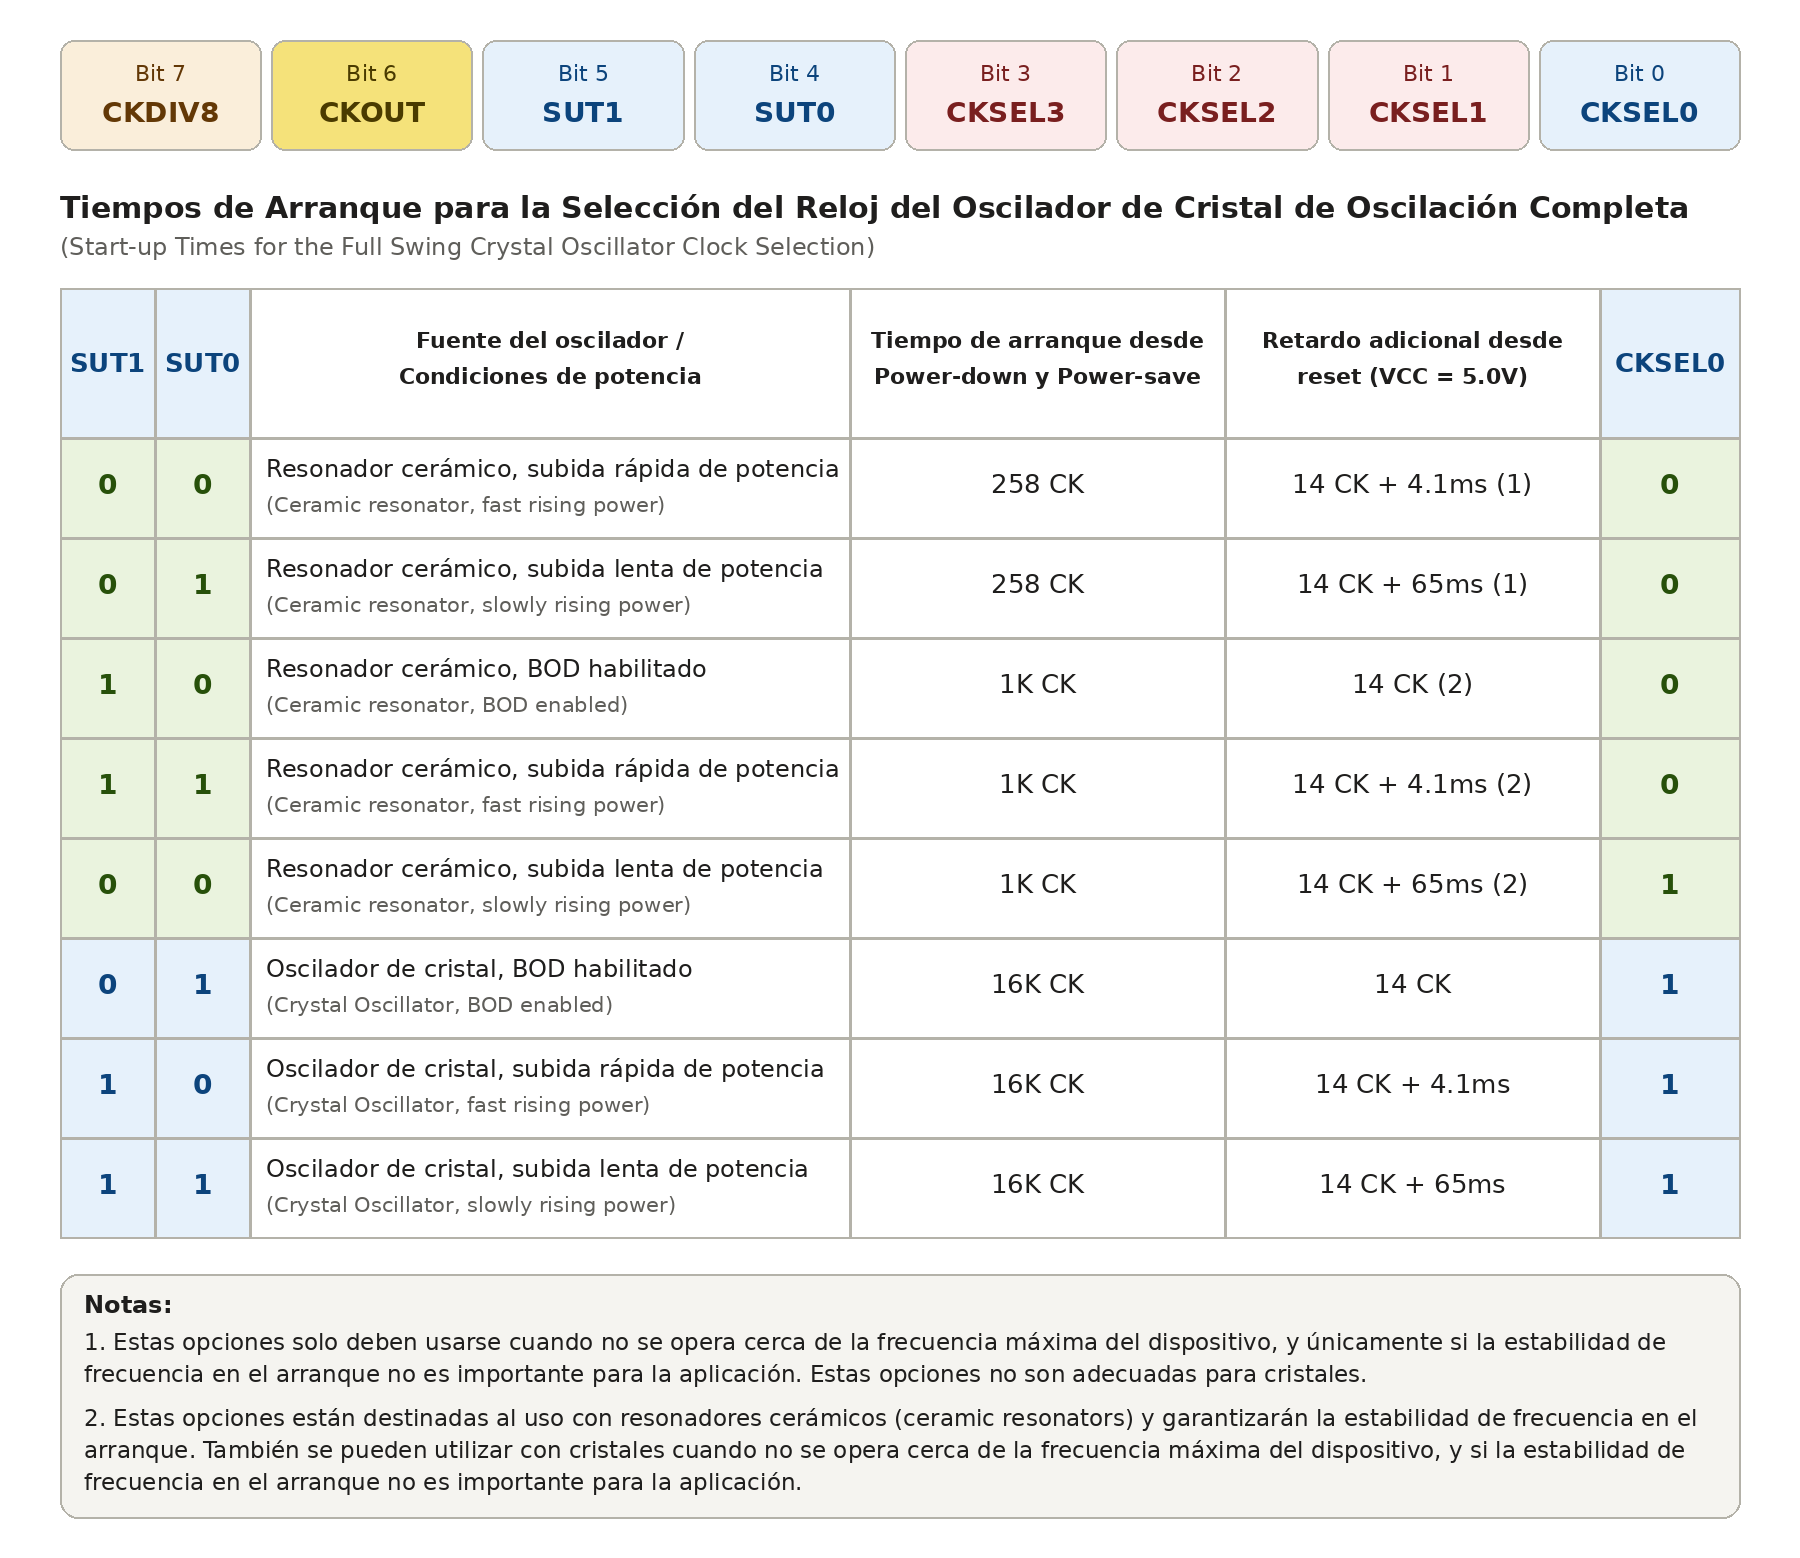
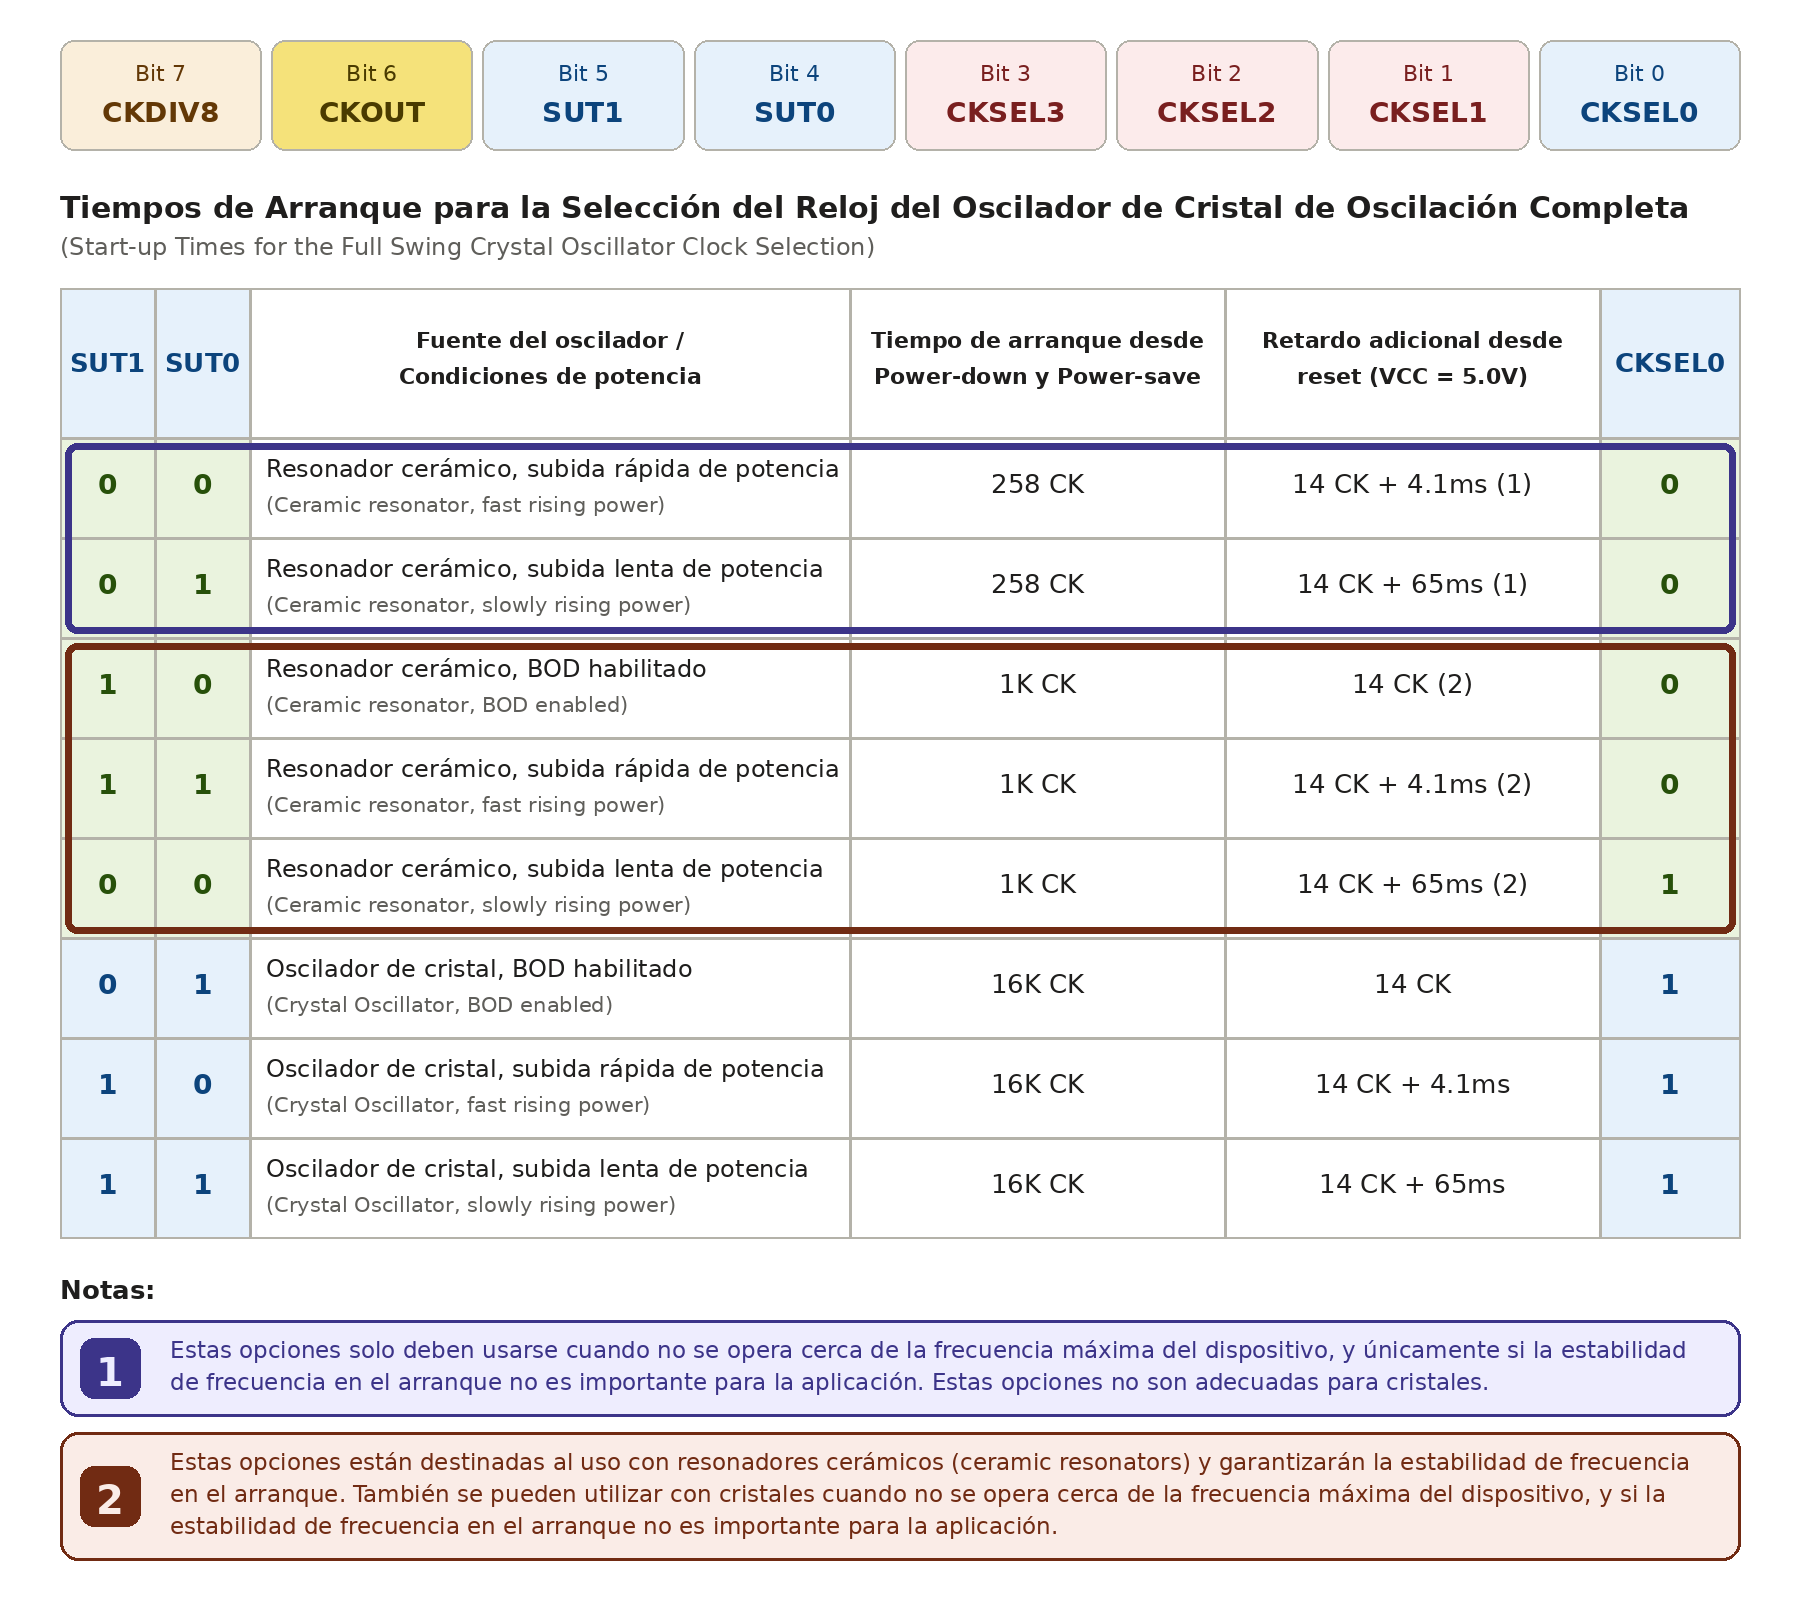
MAs relojes

diff --git a/microcontroladores/avr/48_88_168_328/Reloj/index.html b/microcontroladores/avr/48_88_168_328/Reloj/index.html
@@ -659,6 +659,17 @@
           </table>
           </div>
 
+        <p>Cómo interpretar esta tabla:</p>
+
+        <ul>
+          <li>La capacitancia de carga CL y la ESR son datos del cristal: los especifica su fabricante, en la hoja de datos del cristal.</li>
+          <li>La tabla no dice qué ESR debe tener el cristal, sino la ESR máxima recomendada según su CL.</li>
+          <li>La ESR del cristal debe ser igual o menor que el valor de la fila que corresponde a su CL: hasta 75 kΩ con 6.5 pF, hasta 65 kΩ con 9.0 pF y hasta 30 kΩ con 12.5 pF.</li>
+          <li>A mayor CL, menor es la ESR máxima recomendada.</li>
+          <li>Es un valor típico basado en la caracterización, según la nota (1).</li>
+          <li>Ejemplo con valores supuestos: un cristal de 12.5 pF con ESR de 25 kΩ cumple la recomendación (25 es menor que 30); con ESR de 40 kΩ no la cumple (40 es mayor que 30).</li>
+        </ul>
+        
         <p>El oscilador de cristal de baja frecuencia proporciona una capacitancia de carga interna  en cada pin <code>TOSC</code>. Consulte la Tabla siguiente</p>
 
         <div class="table-container">
@@ -692,13 +703,59 @@
           <p>$$C = 2 \cdot C_L - C_S$$</p>
           <p>donde:</p>
           <ul>
-            <li>C<sub>e</sub> - son los condensadores externos opcionales como se describe en <a href="#seccion-10"> 3. OSCILADOR DE CRISTAL DE BAJA POTENCIA.</a></li>
+            <li>C<sub>e</sub> - son los condensadores externos opcionales como se describe en <a href="#seccion-13"> 5. OSCILADOR DE CRISTAL DE BAJA POTENCIA.</a></li>
             <li>C<sub>i</sub> - es la capacitancia del pin en la Tabla <strong>Capacitancia de Carga Interna para el Oscilador de Cristal de Baja Frecuencia</strong>>.</li>
             <li>C<sub>L</sub> - es la capacitancia de carga para un cristal de 32.768 kHz especificada por el fabricante del cristal.</li>
             <li>C<sub>S</sub> - es la capacitancia parásita total para un pin <code>TOSC</code>.</li>
           </ul>
 
           <p>Los cristales que especifican una capacitancia de carga (C<sub>L</sub>) superior a 6 pF requieren condensadores externos aplicados como se describe en la <a href="#seccion-10"> Crystal Oscillator Connections</a></li>.</p>
+
+          <p>erificar lo siguiente</p>
+
+          <p>La selección final dependerá estrictamente del cristal que hayas comprado:</p>
+
+    <table>
+        <thead>
+            <tr>
+                <th>Si el cristal es de (C<sub>L</sub>)</th>
+                <th>Cálculo estimado (C = 2 · C<sub>L</sub> - 8 pF)</th>
+                <th>Valor comercial recomendado</th>
+            </tr>
+        </thead>
+        <tbody>
+            <tr>
+                <td><strong>6 pF</strong></td>
+                <td>2 · 6 - 6 = 6 pF <br><small style="color: #666;">(o menos con parásitos)</small></td>
+                <td><span class="highlight">No requiere capacitores externos</span><br><small>(la capacitancia interna del microcontrolador es suficiente)</small></td>
+            </tr>
+            <tr>
+                <td><strong>9 pF</strong></td>
+                <td>2 · 9 - 8 = 10 pF</td>
+                <td><strong>10 pF</strong></td>
+            </tr>
+            <tr>
+                <td><strong>12.5 pF</strong></td>
+                <td>2 · 12.5 - 8 = 17 pF</td>
+                <td><strong>15 pF</strong> o <strong>18 pF</strong></td>
+            </tr>
+        </tbody>
+    </table>
+
+    <h3>Consejos de diseño en el PCB</h3>
+    <ul>
+        <li><strong>Cercanía:</strong> Coloca el cristal y los capacitores lo más cerca posible de los pines TOSC1 y TOSC2 del chip.</li>
+        <li><strong>Pistas cortas:</strong> Minimiza la longitud de las pistas para evitar que aumente la capacitancia parásita (C<sub>S</sub>) y altere la precisión del reloj.</li>
+        <li><strong>Plano de masa:</strong> Rodea la zona del oscilador con un plano de tierra para proteger la señal de ruidos electromagnéticos externos.</li>
+    </ul>
+
+    <div class="footer-text">
+        <p>Si tienes dudas sobre las especificaciones, puedes consultar la <strong>Hoja de datos de Microchip para ATmega328P</strong> en la sección <em>Low Frequency Crystal Oscillator</em>.</p>
+        <p><strong>¿Tienes a la mano el modelo exacto del cristal o su hoja de datos para verificar su capacitancia de carga?</strong> Si me lo compartes, te puedo indicar el valor comercial exacto que necesitas.</p>
+    </div>
+<p>verificar hasta aquí</p>
+
+
 
           <p>El oscilador de cristal de baja frecuencia debe seleccionarse configurando los fusibles <code>CKSEL</code> en &laquo;0110&raquo; o &laquo;0111&raquo;, como se muestra en la tabla subsiguiente <strong>Tiempos de Arranque para la Selección del Reloj del Oscilador de Cristal de Baja Frecuencia</strong>. Los tiempos de arranque (<emp>start-up times</emp>) son determinados por los fusibles <code>SUT</code> como se muestra en la Tabla siguiente.</p>
           
